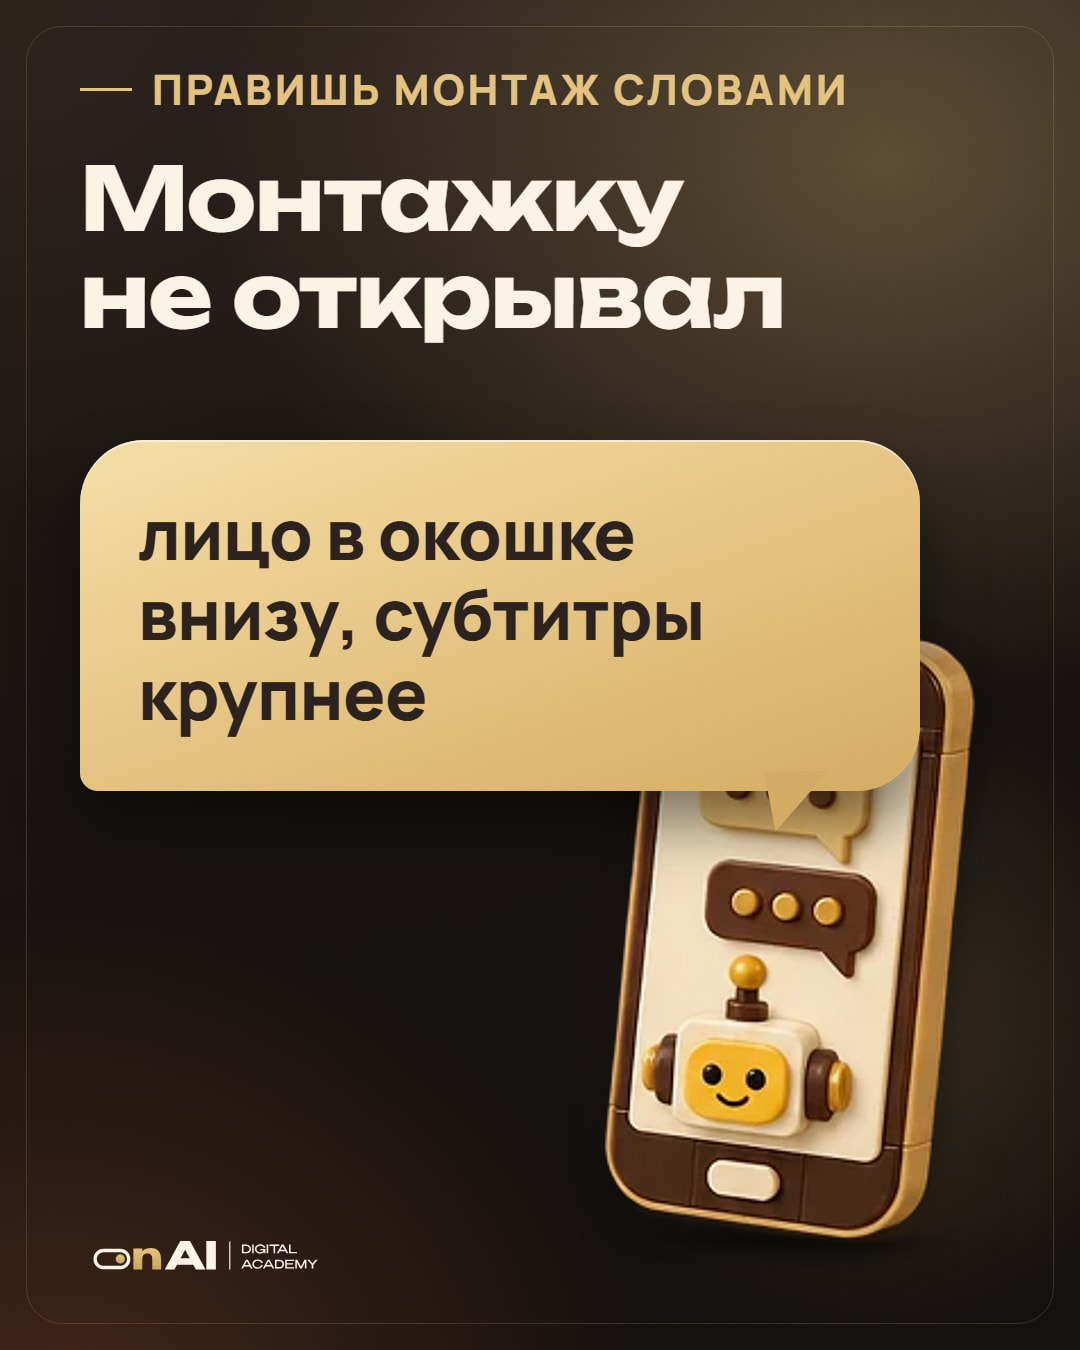
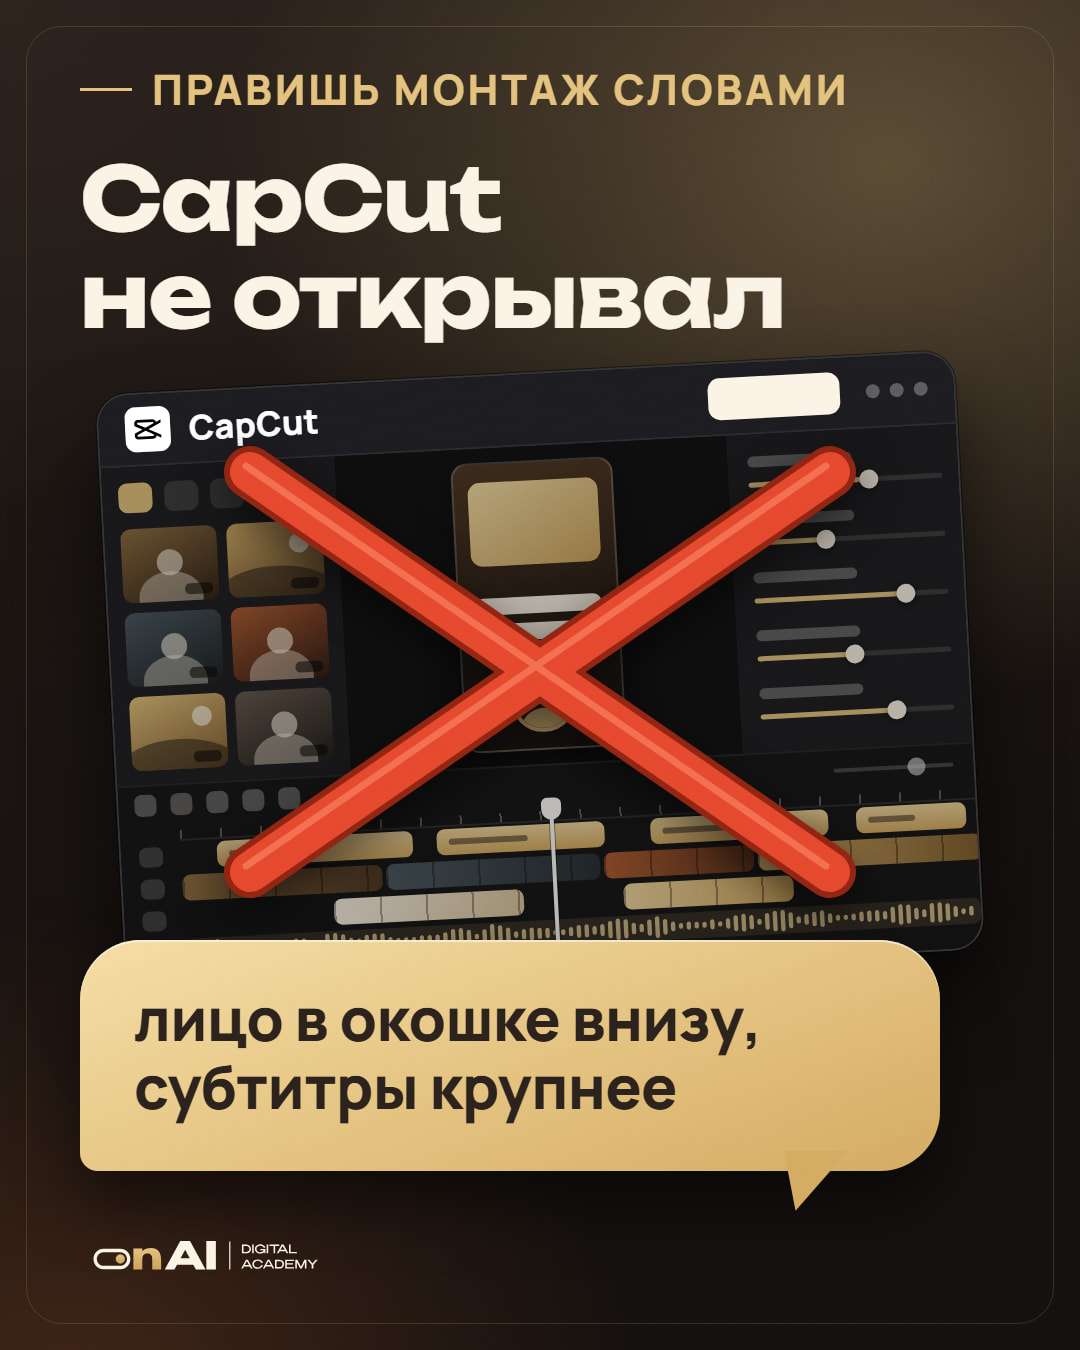
Карточка warm-edits (14:00): окно CapCut перечёркнуто красным крестом, пузырь «правил словами»
Окно видеоредактора нарисовано векторно в card.html (настоящий значок CapCut из
Wikimedia Commons, медиа, кадр, настройки, таймлайн из четырёх дорожек), повёрнуто на -3°,
поверх красный крест #E5472C 40 px, снизу золотой пузырь «лицо в окошке внизу, субтитры
крупнее». Снимок 1080x1350, 193 КБ. Адрес в серии уже ?v=1009c (коммит 0a27e39).

diff --git a/docs/tg-media/card.html b/docs/tg-media/card.html
@@ -45,12 +45,67 @@ html,body{width:1080px;height:1350px}
 .light .obj{filter:drop-shadow(0 12px 16px rgba(70,40,15,.38))}
 .light .logo{content:url("../../workshop-montazh/assets/logos/onai-logo-brown.svg")}
 
-/* warm-edits: крупный пузырь чата */
-.edits .bubble{position:absolute;left:80px;top:440px;width:840px;padding:54px 58px 58px;border-radius:64px 64px 64px 18px;
+/* warm-edits: окно CapCut, нарисованное векторно по смыслу, красный крест поверх и пузырь чата «правил словами» */
+.edits .win{position:absolute;left:110px;top:372px;width:860px;height:600px;border-radius:32px;overflow:hidden;transform:rotate(-3deg);
+  background:#121214;border:2px solid rgba(255,255,255,.14);box-shadow:0 46px 80px rgba(0,0,0,.62),0 0 0 1px rgba(0,0,0,.5)}
+.edits .win::after{content:"";position:absolute;left:0;right:0;top:72px;bottom:0;background:rgba(20,16,14,.3);pointer-events:none}
+.edits .win .bar{position:absolute;left:0;top:0;right:0;height:72px;display:flex;align-items:center;gap:18px;padding:0 26px;background:#1b1b20;border-bottom:2px solid rgba(255,255,255,.07)}
+.edits .win .bar img{display:block;width:46px;height:46px;border-radius:12px;flex:none}
+.edits .win .bar .nm{font-weight:800;font-size:34px;line-height:1;letter-spacing:.01em;color:#fff}
+.edits .win .bar .sp{flex:1}
+.edits .win .bar .ex{width:132px;height:42px;border-radius:12px;background:#FBF3E4}
+.edits .win .bar .wd{display:flex;gap:10px;margin-left:8px}
+.edits .win .bar .wd i{display:block;width:14px;height:14px;border-radius:50%;background:rgba(255,255,255,.28)}
+.edits .win .pn{position:absolute;top:72px;height:318px;background:#19191d}
+.edits .win .media{left:0;width:236px;border-right:2px solid rgba(0,0,0,.5)}
+.edits .win .media .tabs{position:absolute;left:16px;top:16px;display:flex;gap:12px}
+.edits .win .media .tabs i{display:block;width:34px;height:30px;border-radius:9px;background:rgba(255,255,255,.14)}
+.edits .win .media .tabs i:first-child{background:#E3C07B}
+.edits .win .media .grid{position:absolute;left:16px;right:16px;top:62px;display:grid;grid-template-columns:1fr 1fr;gap:10px}
+.edits .win .th{display:block;position:relative;height:74px;border-radius:10px;overflow:hidden}
+.edits .win .th::after{content:"";position:absolute;right:6px;bottom:6px;width:28px;height:11px;border-radius:5px;background:rgba(0,0,0,.55)}
+.edits .win .th .hd{position:absolute;left:50%;bottom:26px;width:26px;height:26px;margin-left:-13px;border-radius:50%;background:rgba(251,243,228,.6)}
+.edits .win .th .sh{position:absolute;left:50%;bottom:-20px;width:64px;height:50px;margin-left:-32px;border-radius:50% 50% 0 0;background:rgba(251,243,228,.42)}
+.edits .win .th .sun{position:absolute;right:14px;top:12px;width:20px;height:20px;border-radius:50%;background:rgba(251,243,228,.7)}
+.edits .win .th .hill{position:absolute;left:-12px;right:-12px;bottom:-26px;height:56px;border-radius:50% 50% 0 0;background:rgba(20,16,14,.5)}
+.edits .win .prev{left:236px;width:388px;background:#0d0d10}
+.edits .win .frm{position:absolute;left:50%;top:14px;width:162px;height:290px;margin-left:-81px;border-radius:16px;overflow:hidden;
+  background:linear-gradient(172deg,#4a3420 0%,#1c1511 62%,#14100E 100%);border:2px solid rgba(255,255,255,.2);box-shadow:0 14px 30px rgba(0,0,0,.6)}
+.edits .win .frm i{position:absolute;display:block}
+.edits .win .frm .fc{left:14px;right:14px;top:18px;height:84px;border-radius:12px;background:linear-gradient(150deg,#F5DDA2,#C9A05A)}
+.edits .win .frm .c1{left:16px;right:16px;top:134px;height:17px;border-radius:9px;background:#FBF3E4}
+.edits .win .frm .c2{left:36px;right:36px;top:160px;height:17px;border-radius:9px;background:#FBF3E4}
+.edits .win .frm .fw{left:50%;bottom:16px;width:66px;height:66px;margin-left:-33px;border-radius:50%;border:4px solid #E3C07B;background:#2b2019;overflow:hidden}
+.edits .win .frm .fw::before{content:"";position:absolute;left:50%;top:10px;width:24px;height:24px;margin-left:-12px;border-radius:50%;background:#E3C07B}
+.edits .win .frm .fw::after{content:"";position:absolute;left:50%;top:38px;width:46px;height:40px;margin-left:-23px;border-radius:50% 50% 0 0;background:#E3C07B}
+.edits .win .insp{left:624px;width:236px;border-left:2px solid rgba(0,0,0,.5)}
+.edits .win .sl{position:absolute;left:20px;right:20px;height:44px}
+.edits .win .sl b{position:absolute;left:0;top:0;width:104px;height:11px;border-radius:6px;background:rgba(255,255,255,.3)}
+.edits .win .sl u{position:absolute;left:0;right:0;top:26px;height:5px;border-radius:3px;background:rgba(255,255,255,.14);text-decoration:none}
+.edits .win .sl u::before{content:"";position:absolute;left:0;top:0;bottom:0;width:var(--v);border-radius:3px;background:#E3C07B}
+.edits .win .sl u::after{content:"";position:absolute;left:var(--v);top:-7px;width:19px;height:19px;margin-left:-9px;border-radius:50%;background:#FBF3E4;box-shadow:0 2px 6px rgba(0,0,0,.5)}
+.edits .win .tl{position:absolute;left:0;right:0;top:390px;bottom:0;background:#121214;border-top:2px solid rgba(255,255,255,.08)}
+.edits .win .tl .tb{position:absolute;left:16px;top:8px;display:flex;gap:14px}
+.edits .win .tl .tb i{display:block;width:22px;height:22px;border-radius:7px;background:rgba(255,255,255,.3)}
+.edits .win .tl .zm{position:absolute;right:20px;top:18px;width:120px;height:4px;border-radius:2px;background:rgba(255,255,255,.2)}
+.edits .win .tl .zm::after{content:"";position:absolute;left:62%;top:-7px;width:18px;height:18px;border-radius:50%;background:rgba(255,255,255,.55)}
+.edits .win .tl .rl{position:absolute;left:60px;right:0;top:38px;height:18px;border-bottom:2px solid rgba(255,255,255,.1);
+  background:repeating-linear-gradient(90deg,rgba(255,255,255,.3) 0 2px,transparent 2px 40px) left bottom/100% 9px no-repeat}
+.edits .win .tl .lane{position:absolute;left:60px;right:0;height:26px}
+.edits .win .tl .gi{position:absolute;left:18px;width:24px;height:20px;border-radius:7px;background:rgba(255,255,255,.18)}
+.edits .win .tl .cl{position:absolute;top:0;height:26px;border-radius:8px;overflow:hidden}
+.edits .win .tl .cl.tx{background:linear-gradient(180deg,#F0D49A,#D3A85F)}
+.edits .win .tl .cl.tx::after{content:"";position:absolute;left:12px;right:46%;top:10px;height:6px;border-radius:3px;background:rgba(42,33,28,.55)}
+.edits .win .tl .cl.vd::after{content:"";position:absolute;inset:0;background:repeating-linear-gradient(90deg,rgba(0,0,0,.34) 0 2px,transparent 2px 46px)}
+.edits .win .tl .au{position:absolute;left:0;right:0;top:0;height:26px;border-radius:8px;background:rgba(227,192,123,.14)}
+.edits .win .tl .au svg{position:absolute;left:0;top:0;width:100%;height:26px}
+.edits .win .tl .ph{position:absolute;left:432px;top:36px;bottom:0;width:4px;margin-left:-2px;background:#fff;box-shadow:0 0 0 1px rgba(0,0,0,.4)}
+.edits .win .tl .ph::before{content:"";position:absolute;left:50%;top:-4px;width:20px;height:22px;margin-left:-10px;border-radius:6px 6px 10px 10px;background:#fff}
+.edits .no{position:absolute;left:0;top:0;width:1080px;height:1350px;pointer-events:none;filter:drop-shadow(0 16px 22px rgba(0,0,0,.55))}
+.edits .bubble{position:absolute;left:80px;top:940px;width:860px;padding:44px 54px 50px;border-radius:60px 60px 60px 18px;
   background:linear-gradient(160deg,#F5DDA2 0%,#E3C07B 55%,#D3A85F 100%);color:#2A211C;
-  font-weight:800;font-size:70px;line-height:1.14;letter-spacing:-.01em;
+  font-weight:800;font-size:60px;line-height:1.14;letter-spacing:-.01em;
   box-shadow:0 34px 60px rgba(0,0,0,.5),inset 0 2px 0 rgba(255,255,255,.55)}
-.edits .bubble b{display:block;margin-bottom:18px;font-weight:800;font-size:30px;letter-spacing:.14em;color:rgba(42,33,28,.62)}
 .edits .bubble .tail{position:absolute;right:92px;bottom:-40px;width:64px;height:60px;
   background:#D3A85F;clip-path:polygon(0 0,100% 0,18% 100%)}
 
@@ -217,13 +272,56 @@ const topic = (n, label, h, objHtml, gx, digitCss, size) => ({
     <div class="digit" style="${digitCss || ""}">${n}</div>${objHtml}${LOGO}`
 });
 
+// warm-edits: окно видеоредактора CapCut, нарисованное по смыслу (не скриншот): значок, медиа, кадр, настройки, таймлайн из четырёх дорожек
+function capcutWindow() {
+  const th = (a, b, kind) => `<i class="th" style="background:linear-gradient(155deg,${a},${b})">${
+    kind === "p" ? '<s class="hd"></s><s class="sh"></s>' : '<s class="sun"></s><s class="hill"></s>'}</i>`;
+  const thumbs = [
+    th("#8a6a3e", "#2a1d12", "p"), th("#d6b06a", "#5a4020", "h"),
+    th("#46555d", "#171c1f", "p"), th("#a8582e", "#2b1710", "p"),
+    th("#e3c07b", "#7b5a2a", "h"), th("#62564c", "#1d1916", "p"),
+  ].join("");
+  const sliders = [["62%", 22], ["38%", 80], ["78%", 138], ["50%", 196], ["70%", 254]]
+    .map(([v, y]) => `<div class="sl" style="top:${y}px;--v:${v}"><b></b><u></u></div>`).join("");
+  // волна звука: детерминированные столбики
+  let bars = "";
+  for (let i = 0; i < 100; i++) {
+    const h = 5 + Math.abs(Math.sin(i * 0.61) * Math.cos(i * 0.17)) * 17 + (i % 7 === 3 ? 3 : 0);
+    bars += `<rect x="${(6 + i * 7.9).toFixed(1)}" y="${(13 - h / 2).toFixed(1)}" width="4.4" height="${h.toFixed(1)}" rx="2.2" fill="#F0D49A" fill-opacity=".8"/>`;
+  }
+  const clip = (cls, l, w, bg) => `<i class="cl ${cls}" style="left:${l}px;width:${w}px;${bg ? "background:" + bg : ""}"></i>`;
+  const lane = (y, inner) => `<div class="gi" style="top:${y + 3}px"></div><div class="lane" style="top:${y}px">${inner}</div>`;
+  return `<div class="win">
+    <div class="bar"><img src="obj/capcut-icon.svg" alt=""><span class="nm">CapCut</span><span class="sp"></span><span class="ex"></span><span class="wd"><i></i><i></i><i></i></span></div>
+    <div class="pn media"><div class="tabs"><i></i><i></i><i></i><i></i></div><div class="grid">${thumbs}</div></div>
+    <div class="pn prev"><div class="frm"><i class="fc"></i><i class="c1"></i><i class="c2"></i><i class="fw"></i></div></div>
+    <div class="pn insp">${sliders}</div>
+    <div class="tl">
+      <div class="tb"><i></i><i></i><i></i><i></i><i></i></div><div class="zm"></div>
+      <div class="rl"></div>
+      ${lane(58, clip("tx", 36, 196) + clip("tx", 256, 168) + clip("tx", 470, 178) + clip("tx", 676, 110))}
+      ${lane(90, clip("vd", 0, 200, "linear-gradient(90deg,#8a6a3e,#4a3420)") + clip("vd", 204, 214, "linear-gradient(90deg,#46555d,#232b30)") + clip("vd", 422, 150, "linear-gradient(90deg,#a8582e,#5a2f18)") + clip("vd", 576, 224, "linear-gradient(90deg,#d6b06a,#7b5a2a)"))}
+      ${lane(122, clip("vd", 150, 190, "linear-gradient(90deg,#FBF3E4,#D9C39A)") + clip("vd", 440, 170, "linear-gradient(90deg,#F0D49A,#C9A05A)"))}
+      ${lane(154, `<div class="au"><svg viewBox="0 0 800 26" preserveAspectRatio="none">${bars}</svg></div>`)}
+      <div class="ph"></div>
+    </div>
+  </div>`;
+}
+// красный крест поверх окна: толстые диагонали со скруглёнными концами, красный как точка LIVE
+const redCross = () => `<svg class="no" viewBox="0 0 1080 1350" xmlns="http://www.w3.org/2000/svg" fill="none" stroke-linecap="round">
+    <path d="M250 472 L830 872 M830 472 L250 872" stroke="#8E2412" stroke-width="52"/>
+    <path d="M250 472 L830 872 M830 472 L250 872" stroke="#E5472C" stroke-width="40"/>
+    <path d="M250 472 L830 872 M830 472 L250 872" stroke="#FF8A6B" stroke-opacity=".55" stroke-width="7" transform="translate(-4 -6)"/>
+  </svg>`;
+
 const cards = {
   // ---------- готовые карточки, правки 09.10.2026 ----------
   "warm-edits": {
+    // 14:00: окно CapCut перечёркнуто красным крестом, снизу золотой пузырь «правил словами» (09.10.2026, адрес ?v=1009c)
     cls: "edits", gx: "82%", gy: "12%",
-    html: `${lab("ПРАВИШЬ МОНТАЖ СЛОВАМИ")}${head("Монтажку<br>не открывал", 88)}
-      ${glow(560, 700, 640, 640, .45)}
-      ${stand("X:lg-i-botchat-x3.png", { cx: 790, foot: 1242, vw: 370 })}
+    html: `${lab("ПРАВИШЬ МОНТАЖ СЛОВАМИ")}${head("CapCut<br>не открывал", 88)}
+      ${glow(200, 400, 700, 700, .4)}
+      ${capcutWindow()}${redCross()}
       <div class="bubble">лицо в окошке внизу, субтитры крупнее<div class="tail"></div></div>${LOGO}`
   },
   "warm-cases": {
